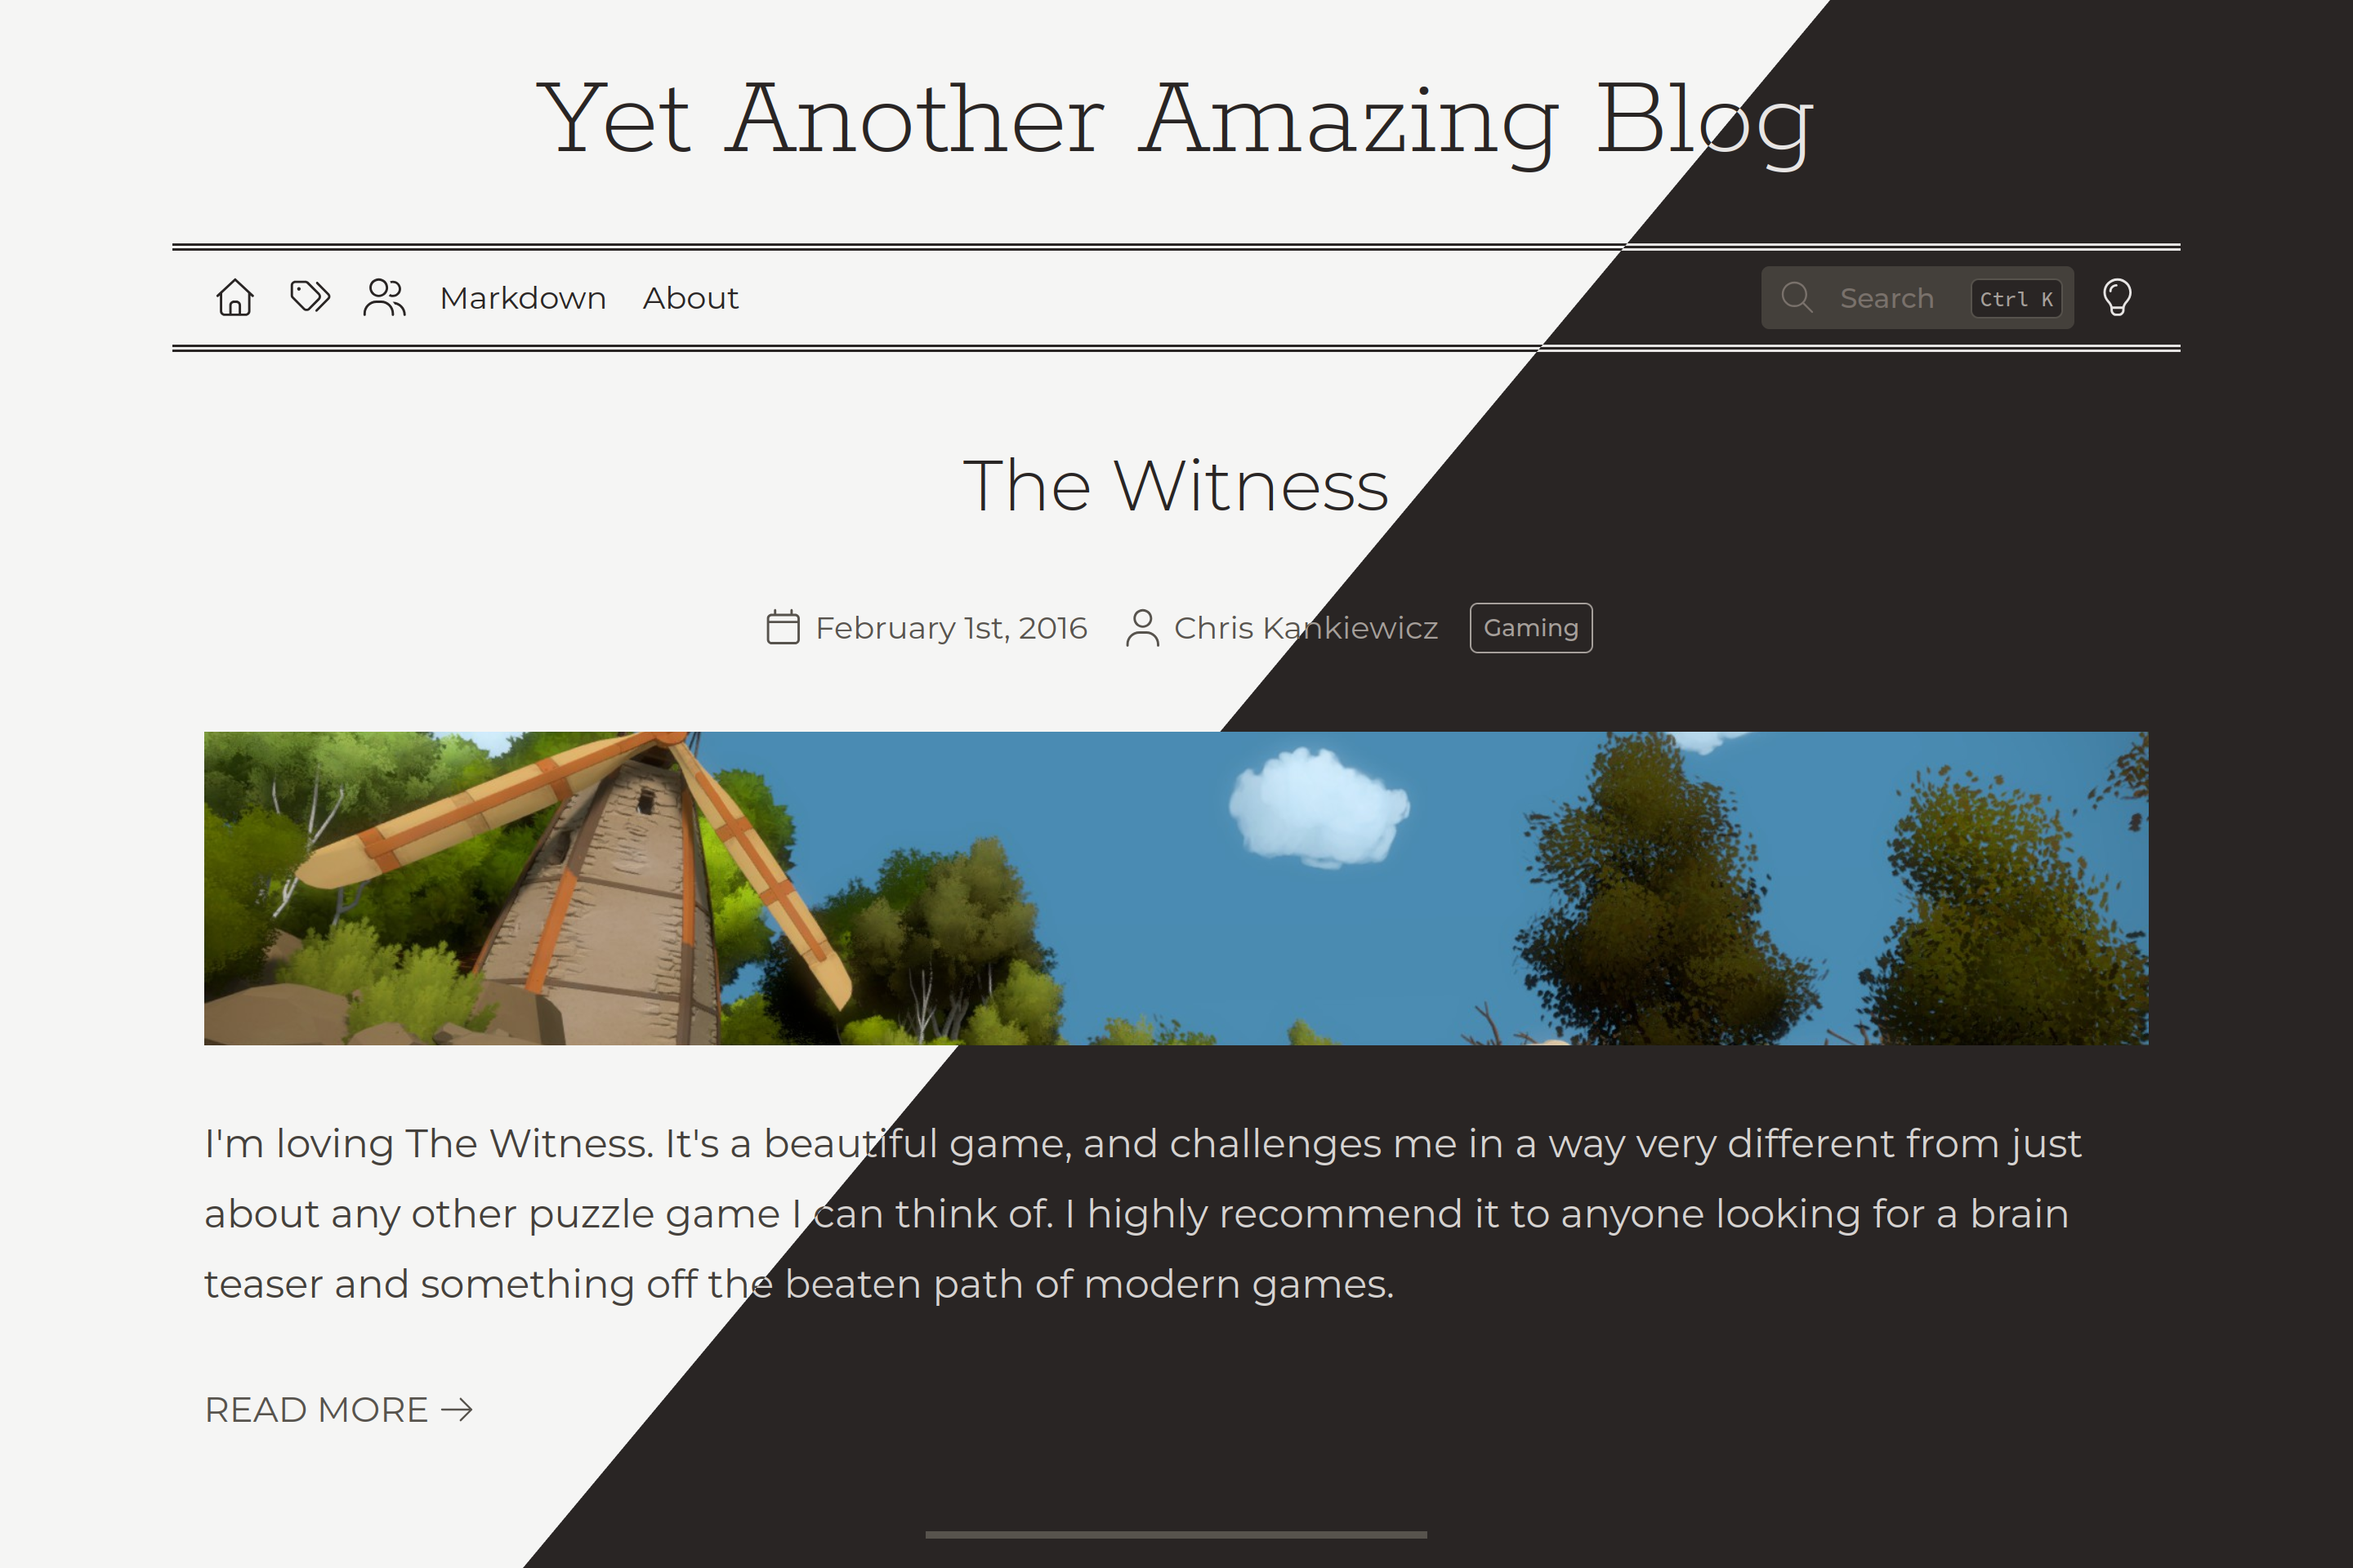
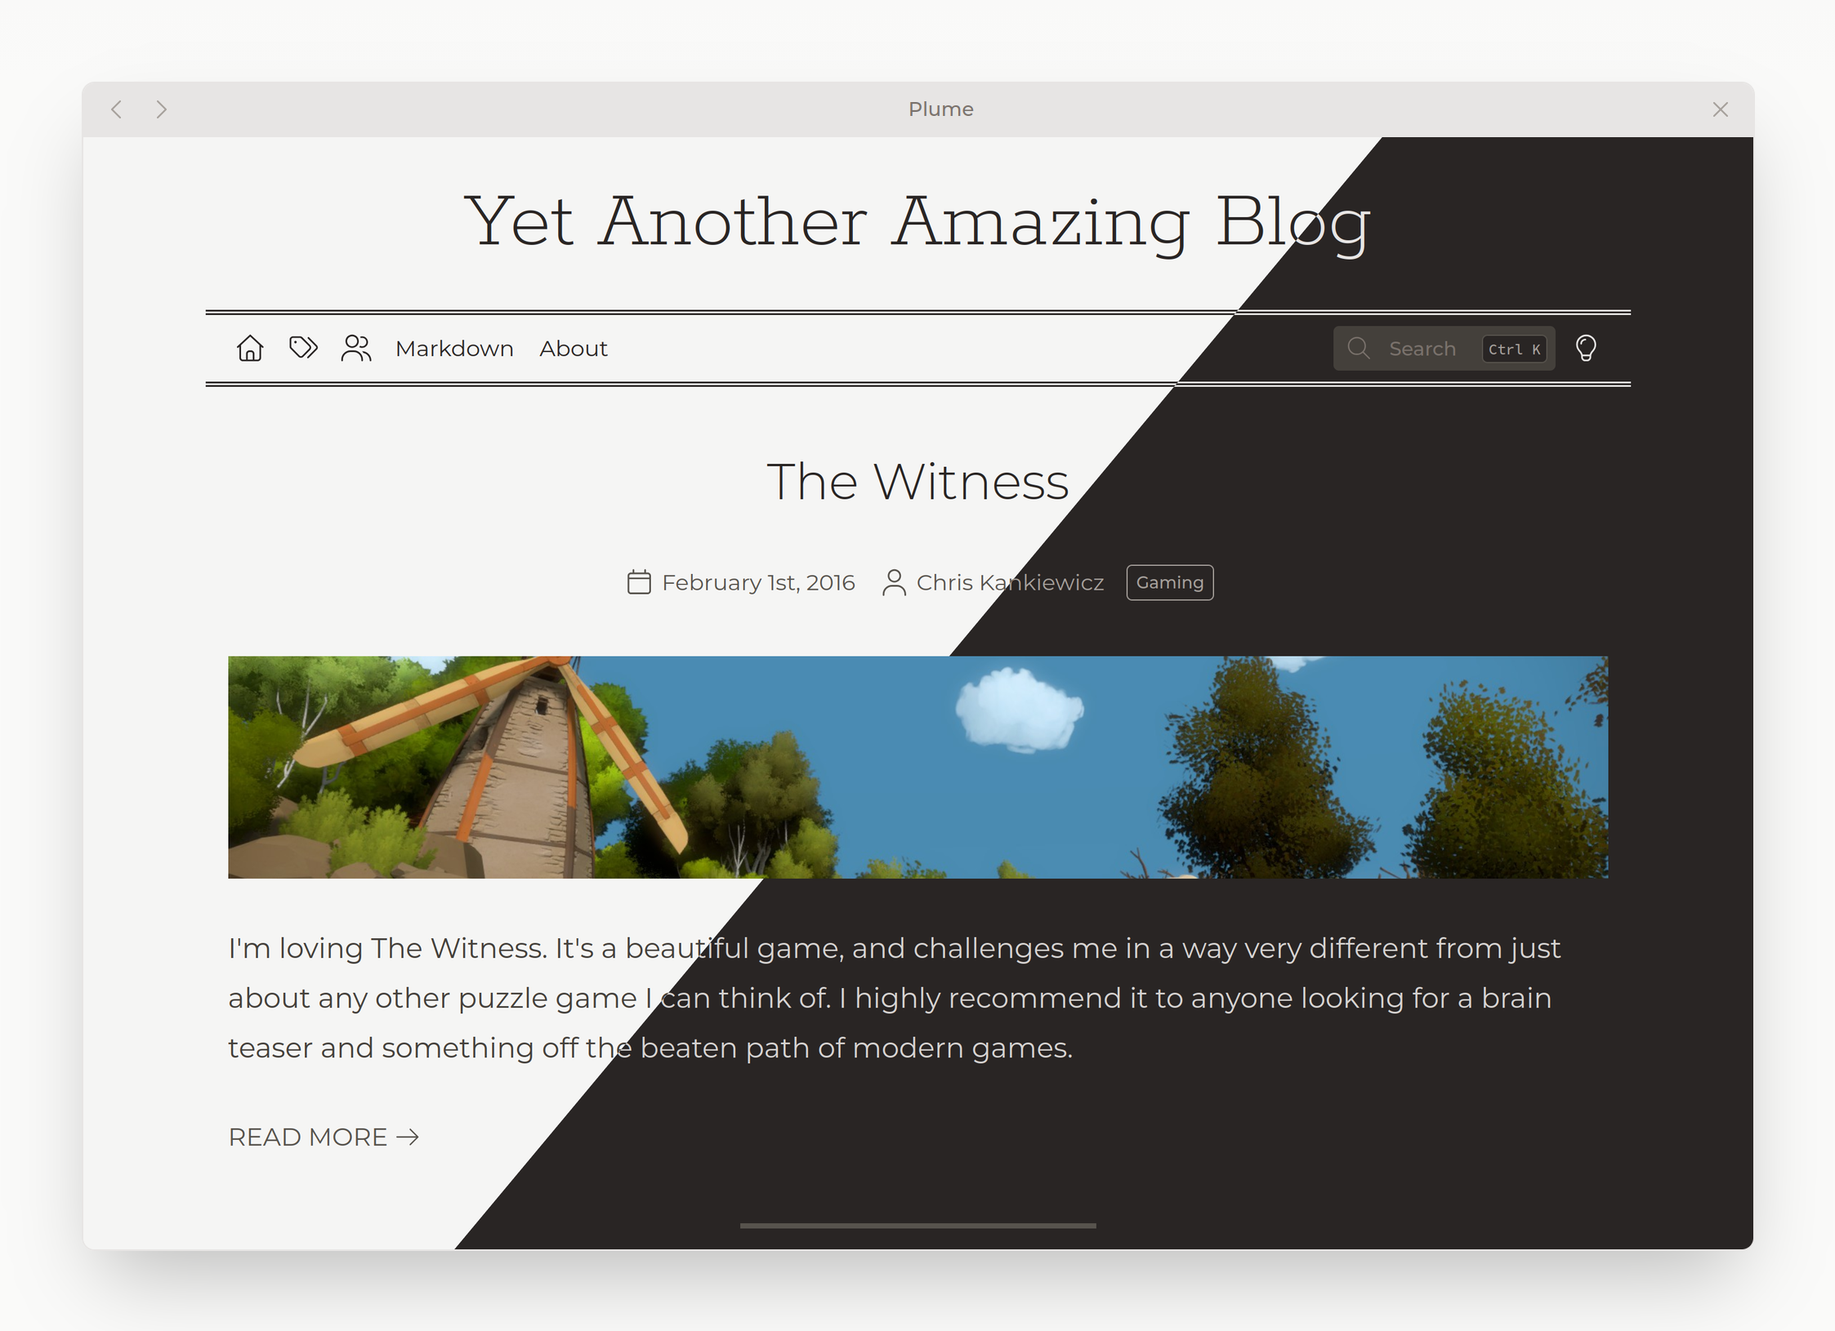
Updated Plume screenshot and moved it to the post body

Changed region(s): [[0.0623, 0.0, 1.0, 1.0]]

diff --git a/posts/announcing-plume.md b/posts/announcing-plume.md
@@ -2,8 +2,6 @@
 title: Announcing Plume
 published: 2026-09-20 09:30:42
 author: Chris Kankiewicz
-image:
-  url: /files/announcing-plume/plume-screenshot.png
 tags: [Code, Plume, PHP, Open Source]
 ---
 
@@ -11,7 +9,10 @@ tags: [Code, Plume, PHP, Open Source]
 Today I'm happy to announce the first release candidate of [Plume](https://plume.pub),
 a self-hosted, Markdown-powered, flat-file publishing platform. You can find the source on
 [GitHub](https://github.com/PHLAK/Plume) and documentation at [docs.plume.pub](https://docs.plume.pub).
+
+![Plume Screenshot](/files/announcing-plume/plume-screenshot.png)
 <!-- /excerpt -->
+
 
 # What it does
 
